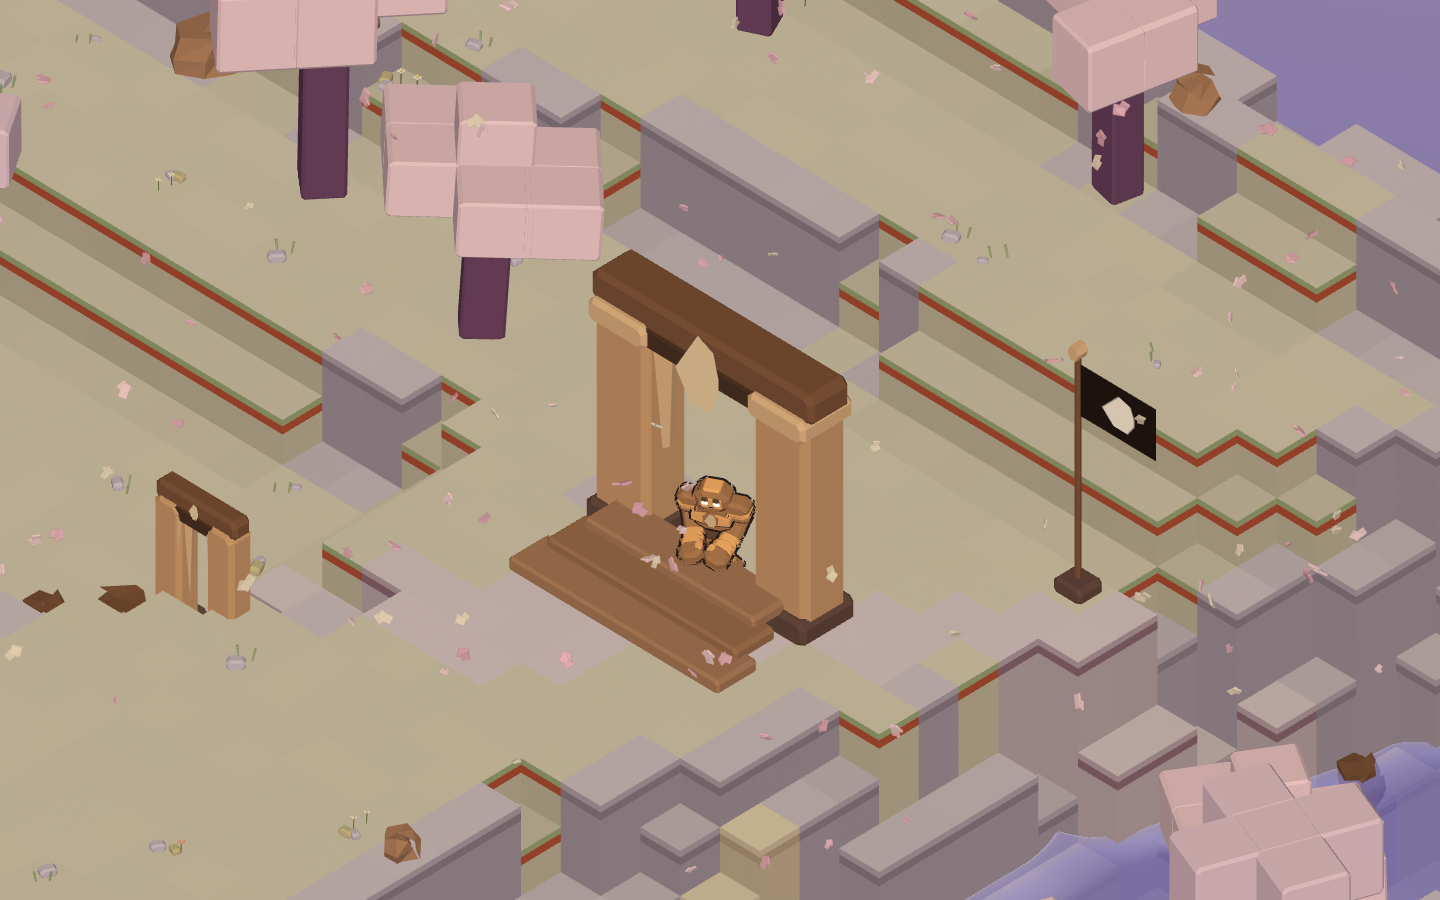
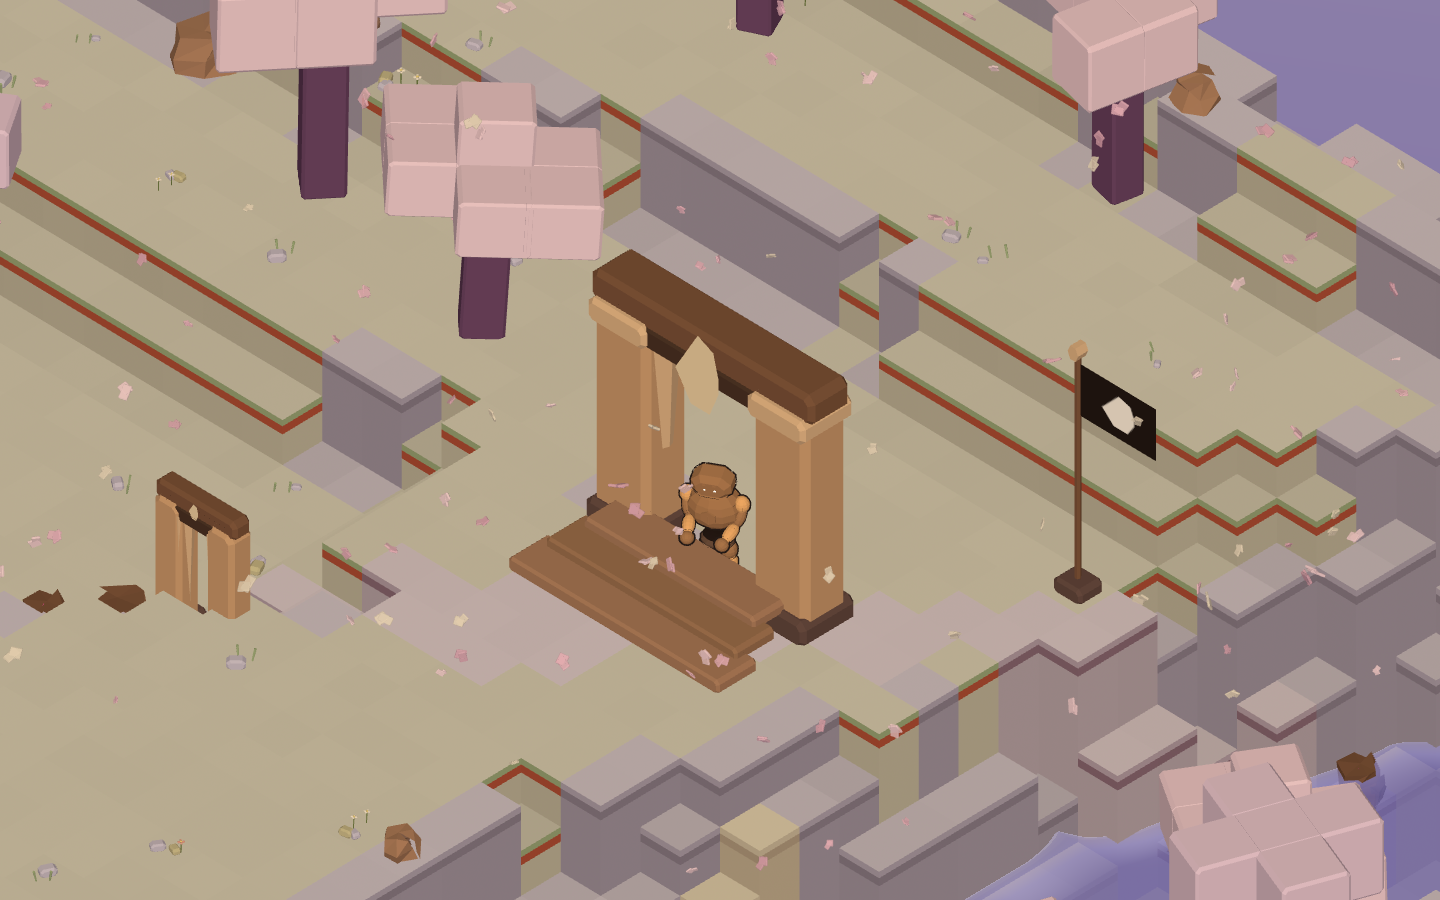
Rocky rebuilt against the sheet, and the rod pointed backwards
Two things, and both were me not looking.

ROCKY WAS A DIFFERENT CHARACTER. The build had a trapezoidal chest, enormous
flaring pauldrons, a projecting visor brow, mitts with thumbs, and feet that
stuck forward. None of that is on the reference sheet. I had written a long
header claiming it was "rebuilt from the reference" and then never went back and
measured one.

Measured now, off the front-on cave drawing, as fractions of total height:
lower leg 0→0.155, upper leg →0.308, hips →0.385, waist band →0.429, torso
→0.846, head →1.0. Width across the shoulders is 0.78 of the height — he is
squat, a bit over three head-heights and nearly as wide as he is tall.

What the sheet actually has: a ROUNDED FACETED BARREL for a torso, two fifths of
his height and the dominant mass. No neck and no collar — the head sits straight
on it. Rounded capsule arms off the top outside corners ending in BLUNT STUMPS;
he has no hands and no fingers anywhere on the sheet. Short capsule legs ending
in blunt stumps, no feet. Two tiny white SLITS for eyes, set wide and high, with
no brow over them.

Every mass is now a low-poly sphere scaled into an ellipsoid, which gives the
faceted stone of the drawings for free under flatShading — and sidesteps the rig
rule entirely, because a sphere has no prism axis to get wrong.

THE CHECK REQUIRED THE WRONG DESIGN. `Rocky has pauldrons, not shoulder joints`
passed happily for months while the model looked nothing like the sheet, because
[…]

diff --git a/src/actors/rocky.js b/src/actors/rocky.js
@@ -1,5 +1,5 @@
 import * as THREE from 'three'
-import { chamferBox, COLUMN, DISC, FLAT, glowMat, POINT, shardMat, stoneMat } from '../core/kit.js'
+import { BALL, chamferBox, FLAT, glowMat, shardMat, stoneMat } from '../core/kit.js'
 import { markFlatGeometry, shardGeometry } from '../core/mark.js'
 import { mix, shade, sunlit, UI } from '../core/palette.js'
 import { damp } from '../core/rng.js'
@@ -134,7 +134,7 @@ export function buildRocky({ cut = 'rocky', chest = 'mark', height = 1.9, outlin
   const parts = { root, materials: MAT }
   // Outline width is a fraction of the figure so a pebble and the gate golem
   // carry the same weight of line, which is what a drawn set does.
-  const inkW = outline ? 0.022 : 0
+  const inkW = outline ? 0.014 : 0
 
   /** One plate. `geo` defaults to the slab prism; limbs pass a Y-axis one. */
   const plate = (parent, { geo = FLAT, at = [0, 0, 0], size = [1, 1, 1], mat = MAT.stone, ink = true, name }) => {
@@ -163,39 +163,63 @@ export function buildRocky({ cut = 'rocky', chest = 'mark', height = 1.9, outlin
     return g
   }
 
-  // ---------------------------------------------------------------- torso --
-  //
-  // Every number below is a fraction of total height, read off the reference:
-  //
-  //   head        0.79 → 1.00   (0.20 tall, 0.21 wide — as wide as it is tall)
-  //   collar      0.775 → 0.80
-  //   chest       0.545 → 0.775 (shoulder line at 0.735, span 0.46)
-  //   waist band  0.50 → 0.545  (0.26 wide — the pinch that makes the flare read)
-  //   pelvis      0.43 → 0.51
-  //   thigh       0.27 → 0.45
-  //   shin        0.075 → 0.27
-  //   foot        0.00 → 0.075, projecting 0.13 forward
-  //
-  // The first cut had the chest at 0.58 wide and the head 0.10 tall, and the
-  // result was a filing cabinet wearing a dinner plate. Width is not the thing
-  // that makes him look heavy — the WAIST PINCH is.
+  /**
+   * THE FIGURE, MEASURED OFF THE SHEET.
+   *
+   * Every number below is a fraction of total height, read from the front-on
+   * cave drawing rather than remembered. Feet at 0, top of head at 1.
+   *
+   *   lower leg   0.000 -> 0.155   blunt rounded stump, no separate foot
+   *   upper leg   0.155 -> 0.308
+   *   hips        0.308 -> 0.385   a wide slab, 0.30 across
+   *   waist band  0.385 -> 0.429   the dark joint ring
+   *   TORSO       0.429 -> 0.846   0.47 at the shoulders, 0.37 deep
+   *   head        0.846 -> 1.000   0.253 wide, 0.154 tall, sitting ON the torso
+   *
+   * Width across the shoulders including the arm masses is 0.78 of the height.
+   * He is SQUAT: a bit over three head-heights, and nearly as wide as he is tall.
+   *
+   * ## What the previous cut got wrong
+   *
+   * It was a different character. A trapezoidal chest, enormous flaring
+   * pauldrons, a projecting visor brow, big mitts with thumbs, and feet that
+   * stuck forward. None of that is on the sheet. What is on the sheet:
+   *
+   *   - The torso is a ROUNDED BARREL, faceted — not a box and not a trapezoid.
+   *     It is the dominant mass, two fifths of his whole height.
+   *   - There is NO NECK and no collar. The head sits straight on the torso.
+   *   - The arms are rounded capsules hanging off the top outside corners of the
+   *     torso, and they end in BLUNT STUMPS. He has no hands and no fingers.
+   *   - The legs are short rounded capsules ending in blunt stumps. No feet.
+   *   - The eyes are two tiny white SLITS set wide and high, not big ovals, and
+   *     there is no brow over them.
+   *
+   * Every mass here is a low-poly sphere scaled into an ellipsoid, which gives
+   * the faceted rounded stone of the drawings for free under `flatShading` —
+   * and, incidentally, sidesteps the rig rule entirely, because a sphere has no
+   * prism axis to get wrong.
+   */
   const body = pivot(root, [0, 0, 0], 'body')
 
-  plate(body, { geo: POINT, at: [0, 0.465, 0], size: [0.235, 0.085, 0.185], mat: MAT.deep })
-  plate(body, { geo: POINT, at: [0, 0.522, 0], size: [0.2, 0.045, 0.15], mat: MAT.joint, ink: false })
+  // --- hips ------------------------------------------------------------------
+  plate(body, { geo: BALL, at: [0, 0.347, 0], size: [0.3, 0.1, 0.24], mat: MAT.deep })
+  // The waist band. One dark ring, and it is what makes the torso read as a
+  // separate quarried mass sitting on the hips rather than one carved lump.
+  plate(body, { geo: BALL, at: [0, 0.407, 0], size: [0.26, 0.05, 0.21], mat: MAT.joint, ink: false })
 
-  const chestG = pivot(body, [0, 0.545, 0], 'chest')
-  plate(chestG, { geo: POINT, at: [0, 0.05, 0], size: [0.28, 0.1, 0.21], mat: MAT.stone })
-  plate(chestG, { geo: FLAT, at: [0, 0.145, 0.005], size: [0.4, 0.13, 0.26], mat: MAT.lit })
-  // The yoke is NARROWER than the pauldrons on purpose. It used to be the widest
-  // plate on the figure at 0.42, which meant the pauldrons landed on top of it
-  // and the three fused into one slab with a head sitting on it.
-  plate(chestG, { geo: FLAT, at: [0, 0.208, -0.005], size: [0.3, 0.085, 0.23], mat: MAT.stone })
+  // --- the torso -------------------------------------------------------------
+  const chestG = pivot(body, [0, 0.429, 0], 'chest')
+  // One big faceted barrel. Its centre sits low so the mass reads as bottom
+  // heavy, which is what the drawing does.
+  plate(chestG, { geo: BALL, at: [0, 0.2, 0], size: [0.50, 0.44, 0.385], mat: MAT.stone })
+  // A lighter cap across the top, so the shoulder line catches the sun and the
+  // barrel does not read as one flat blob.
+  plate(chestG, { geo: BALL, at: [0, 0.30, -0.02], size: [0.40, 0.16, 0.30], mat: MAT.lit })
 
   // ------------------------------------------------------------ the badge --
   // Set INTO a cut recess, never laid on top. The recess is the whole difference
   // between a gem and a sticker.
-  plate(chestG, { geo: FLAT, at: [0, 0.15, 0.128], size: [0.155, 0.155, 0.025], mat: MAT.stone, ink: false })
+  plate(chestG, { geo: FLAT, at: [0, 0.215, 0.176], size: [0.15, 0.15, 0.025], mat: MAT.stone, ink: false })
   if (chest === 'shard') {
     const shard = new THREE.Mesh(shardGeometry(), MAT.shard)
     shard.position.set(0, 0.15, 0.15)
@@ -217,133 +241,86 @@ export function buildRocky({ cut = 'rocky', chest = 'mark', height = 1.9, outlin
   // reads as a collar, and the collar is what says "assembled from plates".
   plate(chestG, { geo: FLAT, at: [0, 0.243, 0.005], size: [0.17, 0.035, 0.17], mat: MAT.joint, ink: false })
 
+
   // ----------------------------------------------------------------- head --
-  /**
-   * THE HEAD: a chamfered cube, wider than tall.
-   *
-   * Not a hex cap. Every reference draws the same solid — a cube with all of its
-   * top edges and corners cut away, leaving a small flat crown, four angled
-   * facets running down from it, and a big flat face. The chamfer is the whole
-   * character of it: an uncut box is a robot and a rounded lump is a boulder.
-   *
-   * The jaw overhangs the front slightly, which is what keeps the eyes sitting
-   * back in shadow the way the drawings have them.
-   */
-  const head = pivot(chestG, [0, 0.242, 0], 'head')
-  // The main mass, cut on every edge.
-  plate(head, { geo: chamferBox(0.225, 0.155, 0.21, 0.045), at: [0, 0.085, 0], size: [1, 1, 1], mat: MAT.stone })
-  // The crown: a smaller flat plate on top, which is the cut the chamfer leaves.
-  plate(head, { geo: chamferBox(0.16, 0.045, 0.15, 0.028), at: [0, 0.176, -0.004], size: [1, 1, 1], mat: MAT.lit })
-  // The face plane, proud of the mass so it catches its own light.
-  plate(head, { geo: chamferBox(0.175, 0.105, 0.02, 0.012), at: [0, 0.092, 0.104], size: [1, 1, 1], mat: MAT.lit })
-  // The jaw, overhanging.
-  plate(head, { geo: chamferBox(0.2, 0.045, 0.19, 0.03), at: [0, 0.022, 0.008], size: [1, 1, 1], mat: MAT.deep })
-  // Two small cut vents on the cheeks — the one piece of surface detail the
-  // drawings agree on, and the thing that stops the face reading as blank.
-  for (const side of [-1, 1]) {
-    plate(head, { geo: FLAT, at: [side * 0.072, 0.062, 0.1], size: [0.038, 0.014, 0.016], mat: MAT.joint, ink: false })
-  }
+  //
+  // Straight on the torso. There is no neck on the sheet, and adding one is the
+  // fastest way to turn a golem into a robot.
+  const head = pivot(chestG, [0, 0.417, 0], 'head')
+  plate(head, { geo: chamferBox(0.253, 0.154, 0.225, 0.05), at: [0, 0.077, 0], size: [1, 1, 1], mat: MAT.stone })
+  // No second plate on the crown. One was there for faceting and its corners
+  // poked through the chamfered box below as pale slivers; `flatShading` on the
+  // chamfer already gives the head the cut planes the drawing has.
 
   for (const side of [-1, 1]) {
-    // Big, and they EMIT. At 0.038 across they were two grey specks that read as
-    // damage rather than as a face; the drawings give him eyes about a fifth of
-    // the head's width, and they are the only part of him that glows.
-    const eye = new THREE.Mesh(DISC, MAT.eye)
-    eye.position.set(side * 0.052, 0.098, 0.113)
-    eye.scale.set(0.062, 0.05, 0.014)
+    /**
+     * The eyes are SLITS. Two of them, tiny, set wide and high.
+     *
+     * On the sheet they are a couple of pixels of white on a brown face — no
+     * pupil, no socket, no brow above them. The previous cut had big ivory ovals
+     * under a projecting visor, which is a different character's face and it is
+     * most of why he did not read as the drawing.
+     */
+    const eye = new THREE.Mesh(FLAT, MAT.eye)
+    eye.position.set(side * 0.045, 0.079, 0.115)
+    eye.scale.set(0.024, 0.013, 0.012)
     head.add(eye)
     parts[side < 0 ? 'eyeL' : 'eyeR'] = eye
-    // The lid: a plate of head-stone that drops over the eye to blink. Cheaper
-    // and far more legible than scaling the eye, which just makes it a slot.
-    const lid = new THREE.Mesh(FLAT, MAT.deep)
-    lid.position.set(side * 0.052, 0.142, 0.115)
-    lid.scale.set(0.07, 0.05, 0.012)
+
+    // The lid: a plate of head-stone that drops over the eye to blink.
+    const lid = new THREE.Mesh(FLAT, MAT.stone)
+    lid.position.set(side * 0.045, 0.093, 0.118)
+    lid.scale.set(0.03, 0.001, 0.014)
     head.add(lid)
     parts[side < 0 ? 'lidL' : 'lidR'] = lid
   }
-  // The mouth: one dark bar. In the reference it is barely a line, and any more
-  // than that turns him from a stone that is pleased into a cartoon that grins.
-  const mouth = new THREE.Mesh(FLAT, MAT.joint)
-  mouth.position.set(0, 0.05, 0.108)
-  mouth.scale.set(0.056, 0.012, 0.016)
-  head.add(mouth)
-  parts.mouth = mouth
 
   // ----------------------------------------------------------------- arms --
   for (const side of [-1, 1]) {
     const L = side < 0 ? 'L' : 'R'
     /**
-     * THE PAULDRONS, and they are the whole silhouette.
+     * Rounded capsules off the top outside corner of the barrel.
      *
-     * Read the sheet as a set and the adult is: a small head sunk between two
-     * ENORMOUS flaring shoulder blocks, with arms hanging off their outer edge
-     * like columns. The shoulders are close to twice the width of the torso, and
-     * they are the thing you recognise at fifty metres — before the head, before
-     * the chest plate, before any of it.
-     *
-     * This had a 0.115 sphere here, which is a shoulder joint rather than a
-     * pauldron, and the result read as a hunched lump with no shape to it at all.
-     *
-     * Built as three stacked slabs that step OUTWARD and narrow going down, so
-     * the flare is in the geometry rather than in a rotation — a rotated Z-axis
-     * prism is the one thing this rig is not allowed to do, and a box that
-     * flares by being three boxes reads better at this scale anyway.
-     *
-     * Parented to the chest, not the arm: a pauldron that swings is a pauldron
-     * that leaves a hole under itself.
+     * No pauldron. The shoulder on the sheet is a small rounded lump sitting
+     * just outside the torso, and the arm hangs straight off it — which is what
+     * makes his outline read as a barrel with two sausages either side rather
+     * than as armour.
      */
-    plate(chestG, { geo: chamferBox(0.165, 0.075, 0.165, 0.03), at: [side * 0.208, 0.256, 0], size: [1, 1, 1], mat: MAT.stone })
-    plate(chestG, { geo: chamferBox(0.15, 0.07, 0.15, 0.028), at: [side * 0.222, 0.196, 0], size: [1, 1, 1], mat: MAT.lit })
-    plate(chestG, { geo: chamferBox(0.125, 0.055, 0.13, 0.024), at: [side * 0.232, 0.142, 0], size: [1, 1, 1], mat: MAT.stone })
-    // The dark seam where the arm leaves the pauldron.
-    plate(chestG, { geo: FLAT, at: [side * 0.23, 0.112, 0], size: [0.112, 0.028, 0.115], mat: MAT.joint, ink: false })
+    plate(chestG, { geo: BALL, at: [side * 0.245, 0.275, 0], size: [0.135, 0.16, 0.135], mat: MAT.lit })
+
+    const upper = pivot(chestG, [side * 0.253, 0.235, 0], `arm${L}`)
+    plate(upper, { geo: BALL, at: [0, -0.085, 0], size: [0.108, 0.21, 0.108], mat: MAT.stone })
+
+    const lower = pivot(upper, [0, -0.175, 0], `fore${L}`)
+    plate(lower, { geo: BALL, at: [0, -0.09, 0], size: [0.112, 0.215, 0.112], mat: MAT.lit })
 
     /**
-     * The arms are SLABS, not clubs.
+     * And it ends there. A blunt rounded stump, no hand.
      *
-     * A hexagonal prism reads as a rolled cylinder from any angle, and with the
-     * ink hull around it the forearm and the fist merged into one boulder. The
-     * sheet draws them as flat quarried blocks — wider across than they are
-     * deep — that step outward at the wrist. Boxes, cut on the edges, with the
-     * step in the geometry.
+     * He has no fingers anywhere on the sheet — every drawing that has him
+     * carrying something has it wedged against the end of the arm. `hand` and
+     * `hold` stay as pivot names so the animation and anything he picks up still
+     * have somewhere to attach.
      */
-    const upper = pivot(chestG, [side * 0.216, 0.104, 0], `arm${L}`)
-    plate(upper, { geo: chamferBox(0.108, 0.185, 0.098, 0.028), at: [0, -0.082, 0], size: [1, 1, 1], mat: MAT.stone })
-    plate(upper, { geo: FLAT, at: [0, -0.175, 0], size: [0.09, 0.026, 0.086], mat: MAT.joint, ink: false })
-
-    const lower = pivot(upper, [0, -0.182, 0], `fore${L}`)
-    // Widening toward the wrist. That inversion is most of what makes him read
-    // as heavy rather than as a mannequin.
-    plate(lower, { geo: chamferBox(0.118, 0.1, 0.104, 0.026), at: [0, -0.055, 0], size: [1, 1, 1], mat: MAT.lit })
-    plate(lower, { geo: chamferBox(0.132, 0.095, 0.112, 0.028), at: [0, -0.145, 0], size: [1, 1, 1], mat: MAT.lit })
-
-    const hand = pivot(lower, [0, -0.196, 0], `hand${L}`)
-    plate(hand, { geo: chamferBox(0.15, 0.115, 0.128, 0.032), at: [0, -0.05, 0], size: [1, 1, 1], mat: MAT.stone })
-    // The thumb ridge. One plate; it is the difference between a mitt that can
-    // hold a bouquet and a mitt that is a brick.
-    plate(hand, { geo: chamferBox(0.042, 0.07, 0.05, 0.014), at: [side * -0.07, -0.03, 0.04], size: [1, 1, 1], mat: MAT.lit })
-    // Where anything he carries gets parented.
-    const socket = pivot(hand, [0, -0.06, 0.06], `hold${L}`)
+    const hand = pivot(lower, [0, -0.185, 0], `hand${L}`)
+    plate(hand, { geo: BALL, at: [0, -0.045, 0], size: [0.125, 0.115, 0.122], mat: MAT.stone })
+    const socket = pivot(hand, [0, -0.05, 0.05], `hold${L}`)
     socket.rotation.x = -0.3
   }
 
   // ----------------------------------------------------------------- legs --
   for (const side of [-1, 1]) {
     const L = side < 0 ? 'L' : 'R'
-    const thigh = pivot(body, [side * 0.085, 0.45, 0], `thigh${L}`)
-    plate(thigh, { geo: COLUMN, at: [0, -0.075, 0], size: [0.135, 0.17, 0.145], mat: MAT.stone })
-    plate(thigh, { geo: FLAT, at: [0, -0.165, 0], size: [0.115, 0.035, 0.12], mat: MAT.joint, ink: false })
+    // Short, thick and splayed a little, straight out of the hip slab.
+    const thigh = pivot(body, [side * 0.095, 0.318, 0], `thigh${L}`)
+    plate(thigh, { geo: BALL, at: [0, -0.075, 0], size: [0.148, 0.185, 0.15], mat: MAT.stone })
 
-    const shin = pivot(thigh, [0, -0.175, 0], `shin${L}`)
-    plate(shin, { geo: COLUMN, at: [0, -0.085, 0], size: [0.125, 0.175, 0.135], mat: MAT.lit })
-    // The knee plate, on the shin so it leads the bend.
-    plate(shin, { geo: FLAT, at: [0, -0.03, 0.055], size: [0.105, 0.075, 0.045], mat: MAT.deep })
+    const shin = pivot(thigh, [0, -0.155, 0], `shin${L}`)
+    plate(shin, { geo: BALL, at: [0, -0.07, 0], size: [0.14, 0.175, 0.142], mat: MAT.lit })
 
-    const foot = pivot(shin, [0, -0.185, 0], `foot${L}`)
-    // Feet project FORWARD. A foot centred under the ankle makes any biped look
-    // like it is about to fall over backwards.
-    plate(foot, { geo: chamferBox(0.165, 0.085, 0.23, 0.035), at: [0, -0.045, 0.04], size: [1, 1, 1], mat: MAT.stone })
-    plate(foot, { geo: chamferBox(0.15, 0.055, 0.09, 0.028), at: [0, 0.005, 0.085], size: [1, 1, 1], mat: MAT.lit })
+    // A blunt rounded end, not a foot. Nothing on the sheet projects forward.
+    const foot = pivot(shin, [0, -0.135, 0], `foot${L}`)
+    plate(foot, { geo: BALL, at: [0, -0.028, 0.006], size: [0.15, 0.09, 0.155], mat: MAT.stone })
   }
 
   root.scale.setScalar(height)

diff --git a/tools/checks.js b/tools/checks.js
@@ -202,18 +202,51 @@ console.log('\nthe brand')
   const cast = read(path.join(SRC, 'actors/cast.js'))
   const buildings = read(path.join(SRC, 'world/buildings.js'))
   const main = read(path.join(SRC, 'main.js'))
+  const { stripJsComments } = await import('./ui-reads.mjs')
 
   /**
-   * THE PAULDRONS ARE THE SILHOUETTE.
+   * ROCKY IS A BARREL, NOT AN ARMOURED FIGURE.
    *
-   * Read the reference sheet as a set and the adult is a small head sunk
-   * between two enormous flaring shoulder blocks. This had a 0.115 sphere there
-   * — a shoulder joint, not a pauldron — and the figure read as a hunched lump.
-   * The measurable version: the shoulders must be clearly wider than the chest.
+   * This check used to require PAULDRONS — "two enormous flaring shoulder
+   * blocks" — and it passed for months while the model looked nothing like the
+   * sheet, because the sheet has no pauldrons on it anywhere. Rebuilt against
+   * the front-on drawing: a rounded faceted barrel two fifths of his height,
+   * no neck, rounded capsule limbs ending in blunt stumps, and two tiny slit
+   * eyes. An assertion that encodes a wrong design is worse than none.
+   *
+   * Measured off `buildRocky`'s unit rig, where feet are 0 and the crown is 1.
    */
-  const pauldronX = [...rocky.matchAll(/side \* (0\.\d+), 0\.\d+, 0\], size: \[1, 1, 1\]/g)].map((m) => Number(m[1]))
-  const widest = Math.max(0, ...pauldronX)
-  assert(widest >= 0.19, 'Rocky has pauldrons, not shoulder joints', `widest shoulder plate at ${widest}`)
+  const num = (re) => { const m = re.exec(rocky); return m ? Number(m[1]) : null }
+
+  // The torso is the dominant mass and it is a sphere, not a box or a prism.
+  const torso = /geo: BALL, at: \[0, 0\.2, 0\], size: \[([\d.]+), ([\d.]+)/.exec(rocky)
+  assert(!!torso, 'the torso is one rounded barrel')
+  if (torso) {
+    const [w, h] = [Number(torso[1]), Number(torso[2])]
+    assert(w > 0.42, 'and it is broad — he is nearly as wide as he is tall', `${w} across`)
+    assert(h > 0.38, 'and deep enough to be the dominant mass', `${h} tall`)
+  }
+
+  // No neck. The head pivot sits on the torso, and a gap there is the single
+  // fastest way to turn a golem into a robot.
+  const headY = num(/const head = pivot\(chestG, \[0, ([\d.]+), 0\]/)
+  const chestY = num(/const chestG = pivot\(body, \[0, ([\d.]+), 0\]/)
+  assert(headY !== null && chestY !== null && headY + chestY > 0.8,
+    'the head sits high on the torso, with no neck under it', `head at ${(headY + chestY).toFixed(3)}`)
+
+  // The eyes are SLITS. Big ovals under a brow is a different character.
+  const eye = /eye\.scale\.set\(([\d.]+), ([\d.]+)/.exec(rocky)
+  assert(!!eye && Number(eye[1]) < 0.05 && Number(eye[2]) < 0.03,
+    'the eyes are tiny slits, not ovals', eye ? `${eye[1]} x ${eye[2]}` : 'not found')
+
+  // And he has no hands and no feet — every limb ends in a blunt rounded stump.
+  // Comments stripped first: the note above `buildRocky` explaining what the
+  // previous cut got wrong names both of these in prose, and a scanner that
+  // cannot tell code from prose reports its own fix as a failure.
+  const rockyCode = stripJsComments(rocky)
+  assert(!/thumb/i.test(rockyCode), 'he has no thumb — there are no fingers anywhere on the sheet')
+  assert(!/project/i.test(rockyCode), 'and nothing projects forward — no feet, no visor brow')
+
 
   // The adult carries the MARK; the little ones carry the crystal. Rocky was
   // wired to the crystal, so the one place the brand should be unmistakable was

diff --git a/src/main.js b/src/main.js
@@ -71,7 +71,7 @@ const POSES = {
   valley: { at: [N / 2, 0, N / 2], size: 62, hour: 9.5 },
   home: { at: [HOME.x, 0, HOME.z], size: 22, hour: 10 },
   gate: { at: [GATE.x, 1, GATE.z], size: 16, hour: 9 },
-  rocky: { at: [GATE.x, 1.2, GATE.z], size: 5.2, hour: 9.5 },
+  rocky: { at: [GATE.x + 0.5, 1.05, GATE.z + 0.5], size: 2.7, hour: 11 },
   sheet: { at: [HOME.x, 1.0, HOME.z], size: 3.6, hour: 12 },
   rig: { at: [HOME.x, 1.0, HOME.z], size: 5, hour: 12 },
   pebble: { at: [HOME.x + 2, -0.86, HOME.z + 2], size: 1.4, hour: 12, pebble: true },
